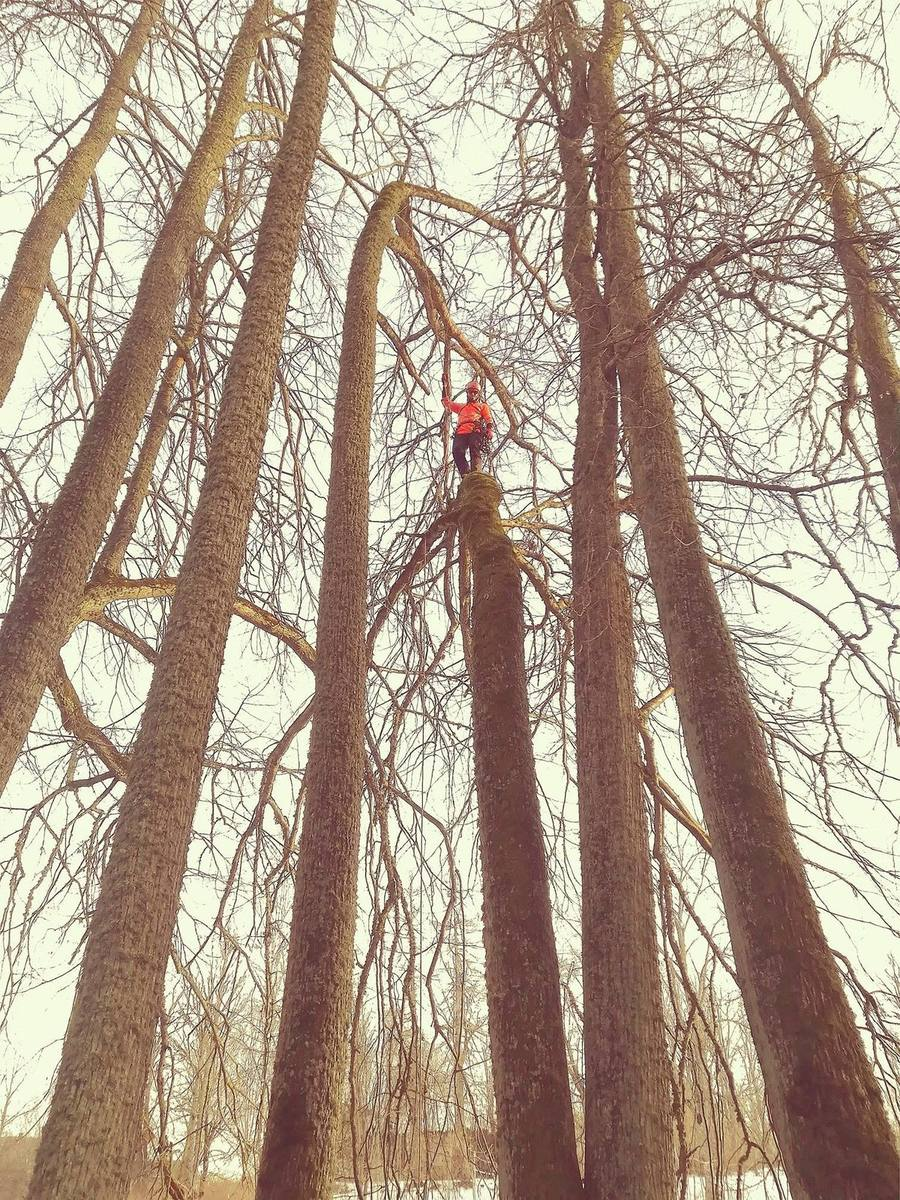
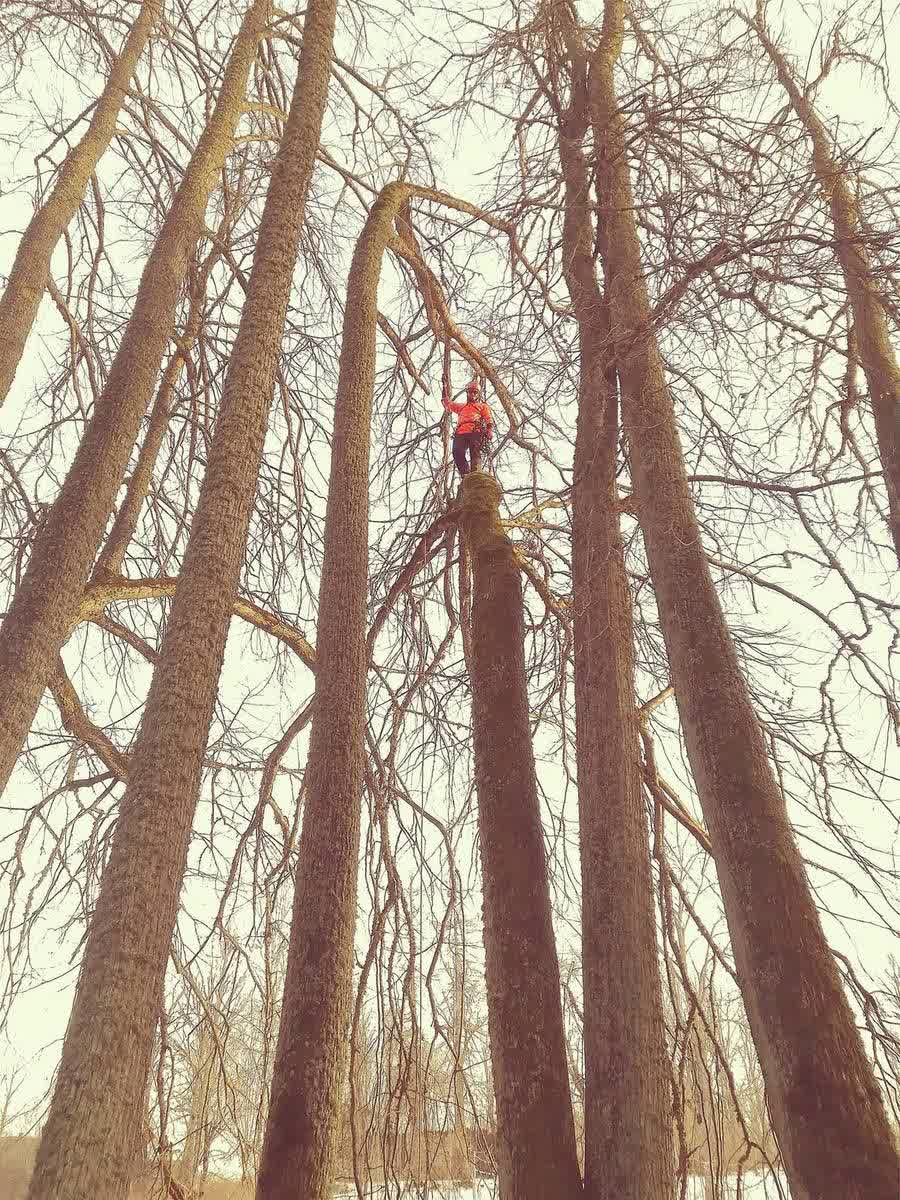
Lighter photos and SEO groundwork
- Heavy photos recompressed (6.4 MB -> 3.9 MB, same pixels), originals kept out of the repo
- Phone-size copies in img/m, offered by version 2 via srcset; hover card uses them; first hero image preloaded with priority
- Version 2 structured data: @id, contact point, real photo
- deploy/: robots.txt, sitemap.xml, llms.txt and a README for the live server root

Changed region(s): [[0.4044, 0.4625, 0.4356, 0.4933]]

diff --git a/v2-mezs/index.html b/v2-mezs/index.html
@@ -35,6 +35,7 @@
   {
     "@context": "https://schema.org",
     "@type": "LocalBusiness",
+    "@id": "https://sauleskoki.lv/#business",
     "name": "Saules Koki",
     "description": "Sertificēti arboristi un kokkopji visā Latvijā. Koku zāģēšana, vainagu veidošana, bīstamu koku nozāģēšana, celmu frēzēšana un augļu koku kopšana.",
     "url": "https://sauleskoki.lv",
@@ -49,7 +50,7 @@
       "@type": "Country",
       "name": "Latvia"
     },
-    "image": "https://sauleskoki.lv/logo.svg",
+    "image": "https://sauleskoki.lv/og-image.jpg",
     "logo": "https://sauleskoki.lv/logo.svg",
     "priceRange": "€€",
     "sameAs": [
@@ -62,29 +63,58 @@
       "itemListElement": [
         {
           "@type": "Offer",
-          "itemOffered": { "@type": "Service", "name": "Konsultācija", "description": "Bezmaksas konsultācija." },
-          "price": "0", "priceCurrency": "EUR"
+          "itemOffered": {
+            "@type": "Service",
+            "name": "Konsultācija",
+            "description": "Bezmaksas konsultācija."
+          },
+          "price": "0",
+          "priceCurrency": "EUR"
         },
         {
           "@type": "Offer",
-          "itemOffered": { "@type": "Service", "name": "Koku vainagu veidošana" }
+          "itemOffered": {
+            "@type": "Service",
+            "name": "Koku vainagu veidošana"
+          }
         },
         {
           "@type": "Offer",
-          "itemOffered": { "@type": "Service", "name": "Sauso un slimo zaru izzāģēšana" }
+          "itemOffered": {
+            "@type": "Service",
+            "name": "Sauso un slimo zaru izzāģēšana"
+          }
         },
         {
           "@type": "Offer",
-          "itemOffered": { "@type": "Service", "name": "Bīstamu koku zāģēšana pa daļām" }
+          "itemOffered": {
+            "@type": "Service",
+            "name": "Bīstamu koku zāģēšana pa daļām"
+          }
         },
         {
           "@type": "Offer",
-          "itemOffered": { "@type": "Service", "name": "Augļu koku kopšana" }
+          "itemOffered": {
+            "@type": "Service",
+            "name": "Augļu koku kopšana"
+          }
         },
         {
           "@type": "Offer",
-          "itemOffered": { "@type": "Service", "name": "Koksnes šķeldošana un celmu frēzēšana" }
+          "itemOffered": {
+            "@type": "Service",
+            "name": "Koksnes šķeldošana un celmu frēzēšana"
+          }
         }
+      ]
+    },
+    "contactPoint": {
+      "@type": "ContactPoint",
+      "telephone": "+37128394620",
+      "email": "eduards@sauleskoki.lv",
+      "contactType": "customer service",
+      "availableLanguage": [
+        "lv"
       ]
     }
   }
@@ -137,7 +167,7 @@
   <link rel="preconnect" href="https://fonts.googleapis.com">
   <link rel="preconnect" href="https://fonts.gstatic.com" crossorigin>
   <link href="https://fonts.googleapis.com/css2?family=Oswald:wght@400;500;600;700&family=Inter:wght@400;500;600;700&display=swap" rel="stylesheet">
-  <link rel="preload" as="image" href="../img/hero-climber.jpg">
+  <link rel="preload" as="image" imagesrcset="../img/m/hero-climber.jpg 900w, ../img/hero-climber.jpg 1440w" imagesizes="100vw">
   <script>document.documentElement.classList.add('js')</script>
   <style>
     *, *::before, *::after { box-sizing: border-box; margin: 0; padding: 0; }
@@ -568,10 +598,10 @@
     <!-- HERO: full-screen photo slideshow -->
     <section class="hero">
       <div class="slides" aria-hidden="true">
-        <div class="slide on" data-cap="Bīstamu koku zāģēšana"><img width="1920" height="2560" src="../img/hero-climber.jpg" alt="" style="object-position:50% 12%"></div>
-        <div class="slide" data-cap="Liepas vainaga kopšana"><img width="1920" height="1080" src="../img/hero-tilia.jpg" alt="" loading="lazy"></div>
-        <div class="slide" data-cap="Darbs ozola vainagā"><img width="1600" height="1200" src="../img/hero-oak-up.jpg" alt="" loading="lazy"></div>
-        <div class="slide" data-cap="Priedes zāģēšana pa daļām"><img width="1440" height="990" src="../img/pine-log-drop.jpg" alt="" loading="lazy" style="object-position:50% 40%"></div>
+        <div class="slide on" data-cap="Bīstamu koku zāģēšana"><img fetchpriority="high" width="1440" height="1920" src="../img/hero-climber.jpg" srcset="../img/m/hero-climber.jpg 900w, ../img/hero-climber.jpg 1440w" sizes="100vw" alt="" style="object-position:50% 12%"></div>
+        <div class="slide" data-cap="Liepas vainaga kopšana"><img width="1920" height="1080" src="../img/hero-tilia.jpg" srcset="../img/m/hero-tilia.jpg 900w, ../img/hero-tilia.jpg 1920w" sizes="100vw" alt="" loading="lazy"></div>
+        <div class="slide" data-cap="Darbs ozola vainagā"><img width="1600" height="1200" src="../img/hero-oak-up.jpg" srcset="../img/m/hero-oak-up.jpg 900w, ../img/hero-oak-up.jpg 1600w" sizes="100vw" alt="" loading="lazy"></div>
+        <div class="slide" data-cap="Priedes zāģēšana pa daļām"><img width="1440" height="990" src="../img/pine-log-drop.jpg" srcset="../img/m/pine-log-drop.jpg 900w, ../img/pine-log-drop.jpg 1440w" sizes="100vw" alt="" loading="lazy" style="object-position:50% 40%"></div>
       </div>
       <div class="wrap hero-inner">
         <p class="eyebrow">Sertificēti arboristi — visā Latvijā</p>
@@ -785,12 +815,12 @@
             <p>Novērtēsim situāciju un ieteiksim labāko risinājumu.</p>
             <span class="arr"><svg class="icon" viewBox="0 0 24 24"><path d="M5 12h14M13 6l6 6-6 6"/></svg></span>
           </a>
-          <a class="row reveal" href="#kontakti" data-img="../img/lindens-shaped.jpg">
+          <a class="row reveal" href="#kontakti" data-img="../img/m/lindens-shaped.jpg">
             <span class="n">02</span>
             <h3>Koku vainagu veidošana</h3>
             <p>Profesionāla vainagu koriģēšana koka veselībai un estētikai.</p>
             <span class="arr"><svg class="icon" viewBox="0 0 24 24"><path d="M5 12h14M13 6l6 6-6 6"/></svg></span>
-            <span class="thumb"><img width="960" height="720" src="../img/lindens-shaped.jpg" alt="" loading="lazy"></span>
+            <span class="thumb"><img width="960" height="720" src="../img/lindens-shaped.jpg" srcset="../img/m/lindens-shaped.jpg 900w, ../img/lindens-shaped.jpg 960w" sizes="(max-width: 960px) 92vw, 300px" alt="" loading="lazy"></span>
           </a>
           <a class="row reveal" href="#kontakti" data-video="../video/crown.mp4" data-poster="../img/row-crown.jpg">
             <span class="n">03</span>
@@ -806,12 +836,12 @@
             <span class="arr"><svg class="icon" viewBox="0 0 24 24"><path d="M5 12h14M13 6l6 6-6 6"/></svg></span>
             <span class="thumb"><video width="478" height="270" muted loop playsinline preload="none" poster="../img/row-dismantle.jpg" data-src="../video/dismantle.mp4" aria-hidden="true"></video></span>
           </a>
-          <a class="row reveal" href="#kontakti" data-img="../img/above-blossom.jpg">
+          <a class="row reveal" href="#kontakti" data-img="../img/m/above-blossom.jpg">
             <span class="n">05</span>
             <h3>Augļu koku kopšana</h3>
             <p>Atzarošana un veidošana labākai ražai un ilgmūžībai.</p>
             <span class="arr"><svg class="icon" viewBox="0 0 24 24"><path d="M5 12h14M13 6l6 6-6 6"/></svg></span>
-            <span class="thumb"><img width="1200" height="1200" src="../img/above-blossom.jpg" alt="" loading="lazy"></span>
+            <span class="thumb"><img width="1200" height="1200" src="../img/above-blossom.jpg" srcset="../img/m/above-blossom.jpg 900w, ../img/above-blossom.jpg 1200w" sizes="(max-width: 960px) 92vw, 300px" alt="" loading="lazy"></span>
           </a>
           <a class="row reveal" href="#kontakti" data-seq="../img/stump-1-koks.jpg,../img/stump-2-celms.jpg,../img/stump-3-bedre.jpg,../img/stump-4-vieta.jpg">
             <span class="n">06</span>
@@ -837,8 +867,8 @@
           <p>Vainaga kopšana: izzāģēti sausie un liekie zari. Koks kļūst vieglāks, drošāks un veselīgāks.</p>
         </div>
         <div class="wipe-box">
-          <img width="1400" height="903" src="../img/before-crown.jpg" alt="Koka vainags pirms kopšanas" loading="lazy">
-          <img width="1400" height="903" class="after" src="../img/after-crown.jpg" alt="Koka vainags pēc kopšanas" loading="lazy">
+          <img width="1400" height="903" src="../img/before-crown.jpg" srcset="../img/m/before-crown.jpg 900w, ../img/before-crown.jpg 1400w" sizes="(max-width: 960px) 100vw, 1240px" alt="Koka vainags pirms kopšanas" loading="lazy">
+          <img width="1400" height="903" class="after" src="../img/after-crown.jpg" srcset="../img/m/after-crown.jpg 900w, ../img/after-crown.jpg 1400w" sizes="(max-width: 960px) 100vw, 1240px" alt="Koka vainags pēc kopšanas" loading="lazy">
           <span class="edge"></span>
           <span class="tag b">Pirms</span>
           <span class="tag a">Pēc</span>
@@ -870,15 +900,15 @@
         </div>
       </div>
       <div class="track" data-track>
-        <figure class="card"><div class="ph"><img width="900" height="1200" src="../img/climb-tall-trees.jpg" alt="Arborists augstā kokā" loading="lazy"></div><figcaption><b>01</b>Darbs augstu kokos</figcaption></figure>
-        <figure class="card"><div class="ph"><img width="1920" height="1080" src="../img/hero-tilia.jpg" alt="Liepas vainaga kopšana no augšas" loading="lazy"></div><figcaption><b>02</b>Liepas vainaga kopšana</figcaption></figure>
-        <figure class="card"><div class="ph"><img width="900" height="1200" src="../img/dismantle-tall.jpg" alt="Koka zāģēšana pa daļām" loading="lazy"></div><figcaption><b>03</b>Zāģēšana pa daļām</figcaption></figure>
-        <figure class="card"><div class="ph"><img width="1200" height="900" src="../img/stork-nest.jpg" alt="Stārķu mazuļi ligzdā" loading="lazy"></div><figcaption><b>04</b>Kokos sastopam arī iemītniekus</figcaption></figure>
-        <figure class="card"><div class="ph"><img width="900" height="1200" src="../img/pine-lake.jpg" alt="Priede ar izzāģētiem zariem" loading="lazy"></div><figcaption><b>05</b>Priedes zaru izzāģēšana</figcaption></figure>
-        <figure class="card"><div class="ph"><img width="960" height="720" src="../img/oak-team-wide.jpg" alt="Sens ozols pēc kopšanas" loading="lazy"></div><figcaption><b>06</b>Sena ozola kopšana</figcaption></figure>
-        <figure class="card"><div class="ph"><img width="900" height="1200" src="../img/above-truck.jpg" alt="Skats no koka galotnes" loading="lazy"></div><figcaption><b>07</b>Skats no galotnes</figcaption></figure>
-        <figure class="card"><div class="ph"><img width="960" height="720" src="../img/trunk-rope-up.jpg" alt="Drošības virve gar stumbru" loading="lazy"></div><figcaption><b>08</b>Virve gar stumbru</figcaption></figure>
-        <figure class="card"><div class="ph"><img width="1200" height="1200" src="../img/dismantle-triptych.jpg" alt="Koka nozāģēšana soli pa solim" loading="lazy"></div><figcaption><b>09</b>Soli pa solim</figcaption></figure>
+        <figure class="card"><div class="ph"><img width="900" height="1200" src="../img/climb-tall-trees.jpg" srcset="../img/m/climb-tall-trees.jpg 900w, ../img/climb-tall-trees.jpg 900w" sizes="(max-width: 640px) 85vw, 42vw" alt="Arborists augstā kokā" loading="lazy"></div><figcaption><b>01</b>Darbs augstu kokos</figcaption></figure>
+        <figure class="card"><div class="ph"><img width="1920" height="1080" src="../img/hero-tilia.jpg" srcset="../img/m/hero-tilia.jpg 900w, ../img/hero-tilia.jpg 1920w" sizes="(max-width: 640px) 85vw, 42vw" alt="Liepas vainaga kopšana no augšas" loading="lazy"></div><figcaption><b>02</b>Liepas vainaga kopšana</figcaption></figure>
+        <figure class="card"><div class="ph"><img width="900" height="1200" src="../img/dismantle-tall.jpg" srcset="../img/m/dismantle-tall.jpg 900w, ../img/dismantle-tall.jpg 900w" sizes="(max-width: 640px) 85vw, 42vw" alt="Koka zāģēšana pa daļām" loading="lazy"></div><figcaption><b>03</b>Zāģēšana pa daļām</figcaption></figure>
+        <figure class="card"><div class="ph"><img width="1200" height="900" src="../img/stork-nest.jpg" srcset="../img/m/stork-nest.jpg 900w, ../img/stork-nest.jpg 1200w" sizes="(max-width: 640px) 85vw, 42vw" alt="Stārķu mazuļi ligzdā" loading="lazy"></div><figcaption><b>04</b>Kokos sastopam arī iemītniekus</figcaption></figure>
+        <figure class="card"><div class="ph"><img width="900" height="1200" src="../img/pine-lake.jpg" srcset="../img/m/pine-lake.jpg 900w, ../img/pine-lake.jpg 900w" sizes="(max-width: 640px) 85vw, 42vw" alt="Priede ar izzāģētiem zariem" loading="lazy"></div><figcaption><b>05</b>Priedes zaru izzāģēšana</figcaption></figure>
+        <figure class="card"><div class="ph"><img width="960" height="720" src="../img/oak-team-wide.jpg" srcset="../img/m/oak-team-wide.jpg 900w, ../img/oak-team-wide.jpg 960w" sizes="(max-width: 640px) 85vw, 42vw" alt="Sens ozols pēc kopšanas" loading="lazy"></div><figcaption><b>06</b>Sena ozola kopšana</figcaption></figure>
+        <figure class="card"><div class="ph"><img width="900" height="1200" src="../img/above-truck.jpg" srcset="../img/m/above-truck.jpg 900w, ../img/above-truck.jpg 900w" sizes="(max-width: 640px) 85vw, 42vw" alt="Skats no koka galotnes" loading="lazy"></div><figcaption><b>07</b>Skats no galotnes</figcaption></figure>
+        <figure class="card"><div class="ph"><img width="960" height="720" src="../img/trunk-rope-up.jpg" srcset="../img/m/trunk-rope-up.jpg 900w, ../img/trunk-rope-up.jpg 960w" sizes="(max-width: 640px) 85vw, 42vw" alt="Drošības virve gar stumbru" loading="lazy"></div><figcaption><b>08</b>Virve gar stumbru</figcaption></figure>
+        <figure class="card"><div class="ph"><img width="1200" height="1200" src="../img/dismantle-triptych.jpg" srcset="../img/m/dismantle-triptych.jpg 900w, ../img/dismantle-triptych.jpg 1200w" sizes="(max-width: 640px) 85vw, 42vw" alt="Koka nozāģēšana soli pa solim" loading="lazy"></div><figcaption><b>09</b>Soli pa solim</figcaption></figure>
       </div>
     </section>
 

diff --git a/deploy/README.md b/deploy/README.md
@@ -1,0 +1,9 @@
+# Files for the live site root (sauleskoki.lv)
+
+Upload these three next to index.html when the chosen version goes live. They are not used by the draft site.
+
+- `robots.txt` — lets every crawler in (search engines and AI assistants) and points to the sitemap.
+- `sitemap.xml` — the one page, with the date. Update `lastmod` when the page changes.
+- `llms.txt` — a plain-text summary of the business for AI assistants. Keep it in step with the page.
+
+Also at go-live: make unknown addresses answer "404 Not Found" instead of the homepage (today https://sauleskoki.lv/anything returns the homepage). How depends on the host.
